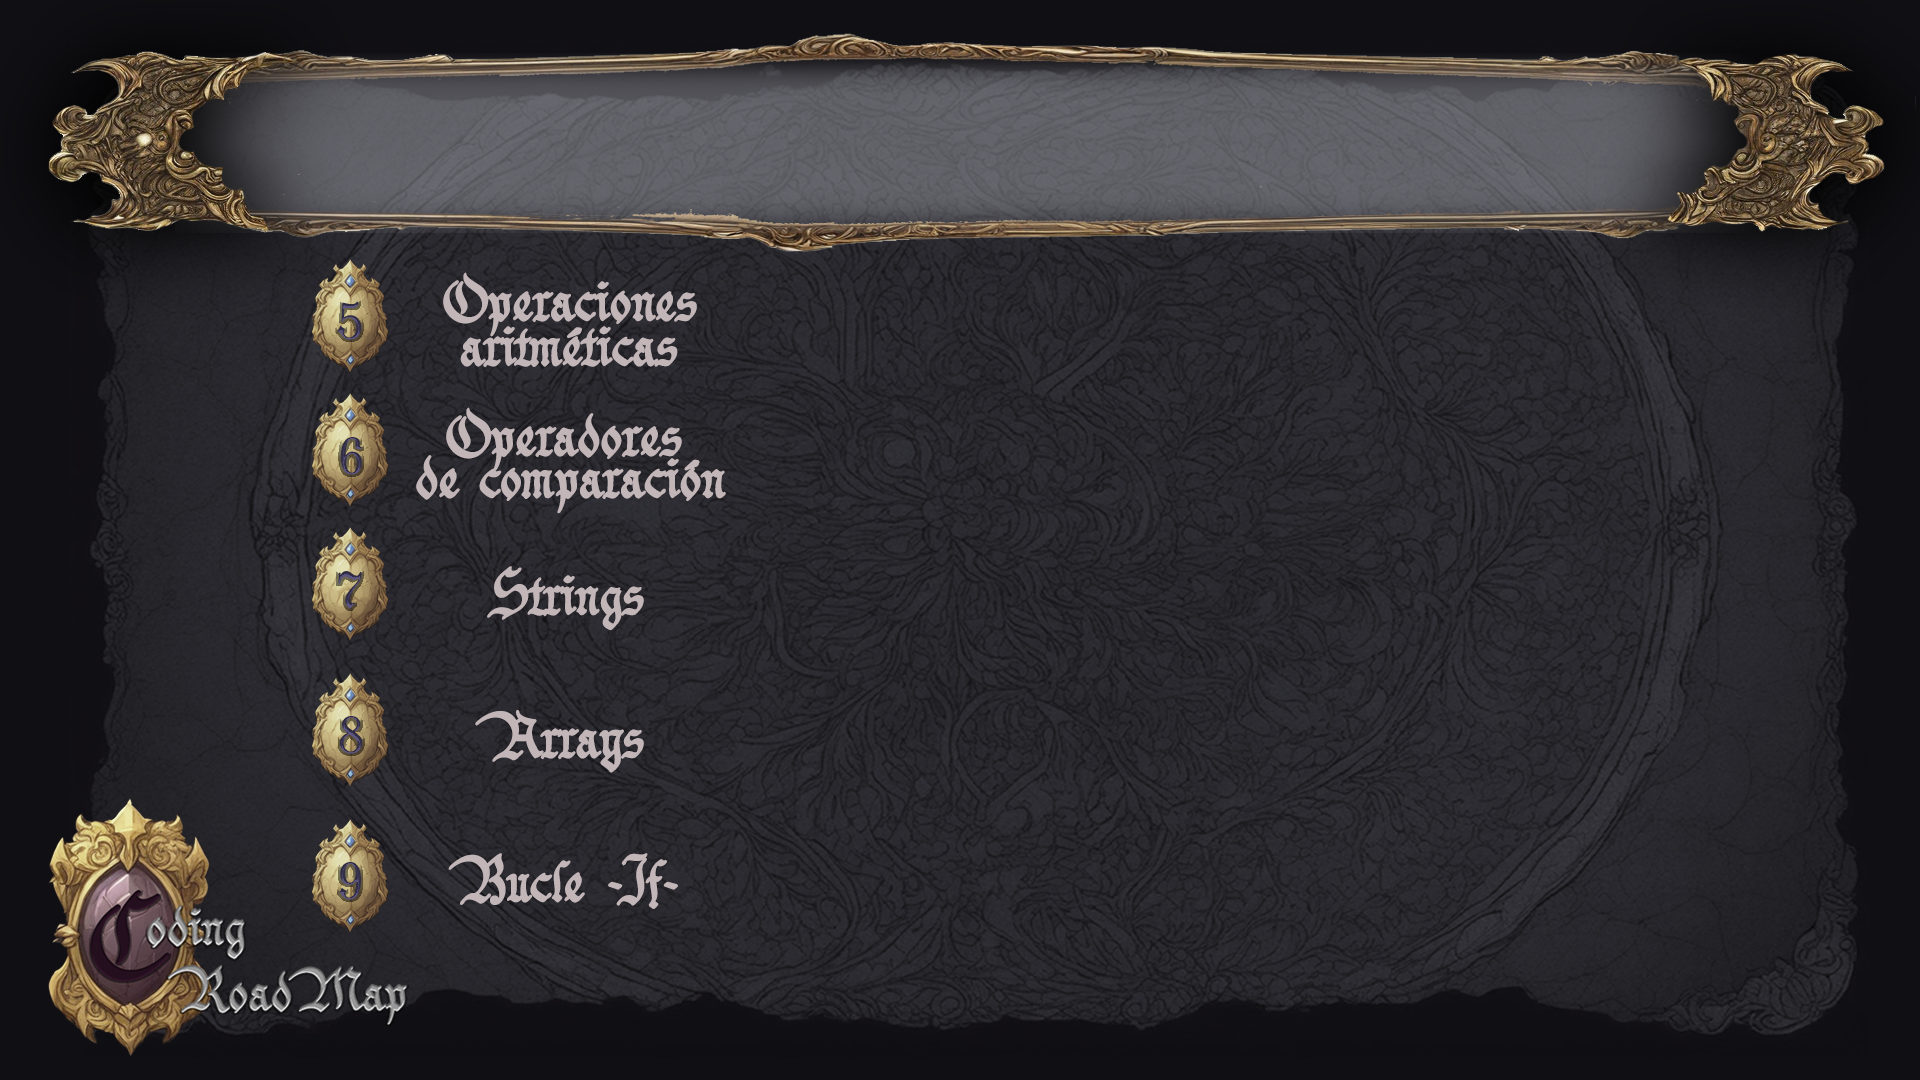
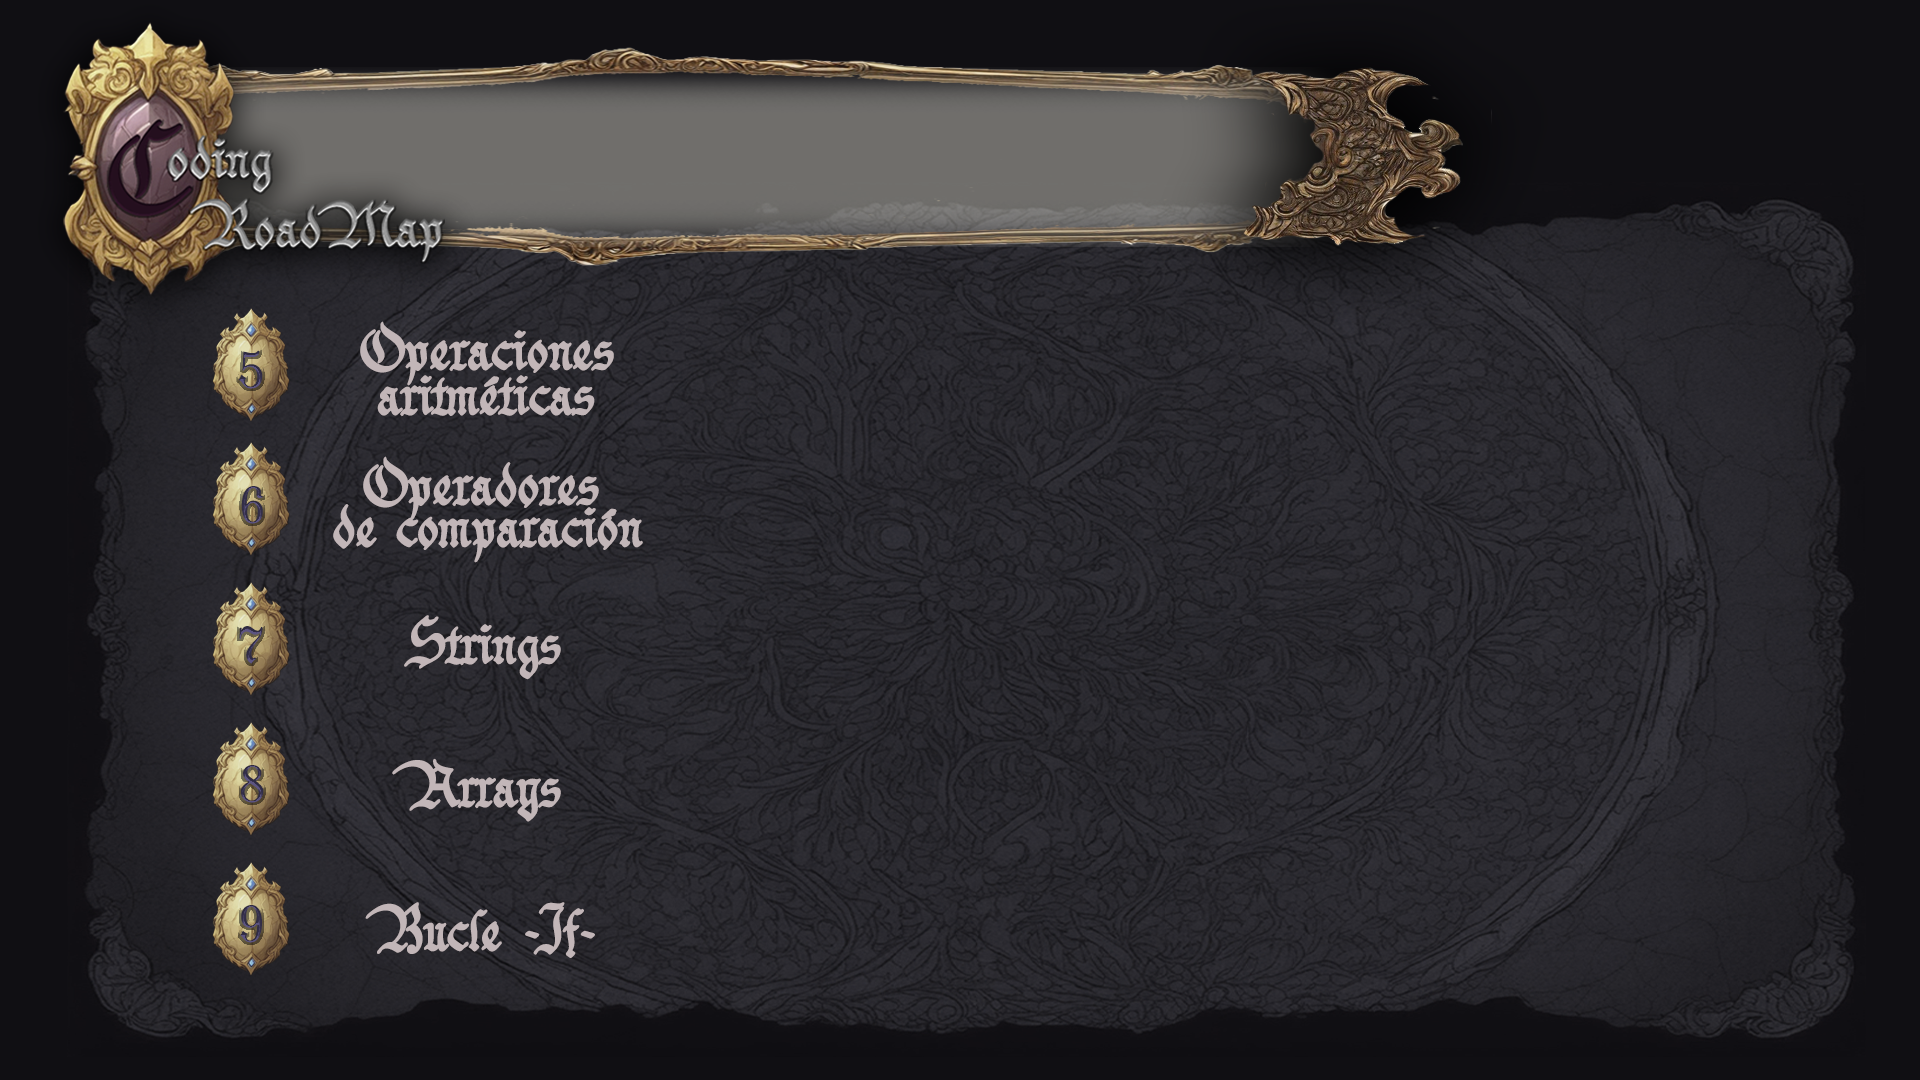
buttons img.

Changed region(s): [[0.0, 0.0306, 1.0, 0.9778]]

diff --git a/ui/screens/landing_2.py b/ui/screens/landing_2.py
@@ -38,7 +38,7 @@ def draw(frame, change_screen):
         canvas.config(cursor="")
 
     setattr(canvas, f"image_next_arrow_tk", image_next_arrow_tk)
-    next_arrow_button = canvas.create_image(120, 330, anchor=tk.NW, image=image_next_arrow_tk)
+    next_arrow_button = canvas.create_image(40, 330, anchor=tk.NW, image=image_next_arrow_tk)
     canvas.tag_bind(next_arrow_button, '<Button-1>', on_image_next_arrow_click)
     canvas.tag_bind(next_arrow_button, "<Enter>", on_image_next_arrow_enter)
     canvas.tag_bind(next_arrow_button, "<Leave>", on_image_next_arrow_leave)
@@ -47,8 +47,8 @@ def draw(frame, change_screen):
     row_offset = 50
     emblems_offset = 40
     for key, value in user_progress.items():
-        emblem_image = Image.open(resource_path("assets\\images\\emblems\\" + str(row_index) + ".png"))
-        emblem_image = emblem_image.resize((62, 62))
+        emblem_image = Image.open(resource_path("assets\\images\\emblems\\"+str(row_index)+".png"))
+        emblem_image = emblem_image.resize((45, 65))
 
         if value["status"] == "LOCKED":
             emblem_image_enhance = ImageEnhance.Brightness(emblem_image)
@@ -58,9 +58,9 @@ def draw(frame, change_screen):
             emblem_image_tk = ImageTk.PhotoImage(emblem_image)
 
         setattr(canvas, f"emblem_image_tk_{row_index}", emblem_image_tk)
-        canvas.create_image(130 + emblems_offset, 50, anchor=tk.NW, image=emblem_image_tk)
+        canvas.create_image(140 + emblems_offset, 65, anchor=tk.NW, image=emblem_image_tk)
 
-        emblems_offset += 63
+        emblems_offset += 80
 
         if row_index >= 5 and row_index <= 6:
             column_offset = 40
@@ -73,7 +73,7 @@ def draw(frame, change_screen):
                 image_book = image_book.resize((50, 70))
                 image_book_tk = ImageTk.PhotoImage(image_book)
                 setattr(canvas, f"image_book_{row_index}", image_book_tk)
-                canvas.create_image(550, 70 + row_offset, anchor=tk.NW, image=image_book_tk)
+                canvas.create_image(550, 135 + row_offset, anchor=tk.NW, image=image_book_tk)
 
             for i in range(value["total"]):
                 state = "LOCKED" if value["status"] == "LOCKED" else "IN_PROGRESS" if i == value["current"] else "LOCKED" if i > value["current"] else "COMPLETED"
@@ -101,7 +101,7 @@ def draw(frame, change_screen):
                     canvas.config(cursor="")
 
                 setattr(canvas, f"image_level_tk_{row_index}_{i}", image_level_tk)
-                button = canvas.create_image(580 + column_offset, 120 + row_offset, anchor=tk.NW, image=image_level_tk)
+                button = canvas.create_image(580 + column_offset, 135 + row_offset, anchor=tk.NW, image=image_level_tk)
                 if state != "LOCKED":
                     canvas.tag_bind(button, "<Enter>", on_image_enter)
                     canvas.tag_bind(button, "<Leave>", on_image_leave)

diff --git a/ui/screens/landing.py b/ui/screens/landing.py
@@ -39,7 +39,7 @@ def draw(frame, change_screen):
         canvas.config(cursor="")
 
     setattr(canvas, f"image_next_arrow_tk", image_next_arrow_tk)
-    next_arrow_button = canvas.create_image(1160, 330, anchor=tk.NW, image=image_next_arrow_tk)
+    next_arrow_button = canvas.create_image(1180, 330, anchor=tk.NW, image=image_next_arrow_tk)
     canvas.tag_bind(next_arrow_button, '<Button-1>', on_image_next_arrow_click)
     canvas.tag_bind(next_arrow_button, "<Enter>", on_image_next_arrow_enter)
     canvas.tag_bind(next_arrow_button, "<Leave>", on_image_next_arrow_leave)
@@ -49,7 +49,7 @@ def draw(frame, change_screen):
     emblems_offset = 40
     for key, value in user_progress.items():
         emblem_image = Image.open(resource_path("assets\\images\\emblems\\"+str(row_index)+".png"))
-        emblem_image = emblem_image.resize((62, 62))
+        emblem_image = emblem_image.resize((45, 65))
 
         if value["status"] == "LOCKED":
             emblem_image_enhance = ImageEnhance.Brightness(emblem_image)
@@ -59,9 +59,9 @@ def draw(frame, change_screen):
             emblem_image_tk = ImageTk.PhotoImage(emblem_image)
 
         setattr(canvas, f"emblem_image_tk_{row_index}", emblem_image_tk)
-        canvas.create_image(130 + emblems_offset, 50, anchor=tk.NW, image=emblem_image_tk)
+        canvas.create_image(140 + emblems_offset, 65, anchor=tk.NW, image=emblem_image_tk)
 
-        emblems_offset += 63
+        emblems_offset += 80
 
         if row_index < 5:
             column_offset = 40
@@ -74,7 +74,7 @@ def draw(frame, change_screen):
                 image_book = image_book.resize((50, 70))
                 image_book_tk = ImageTk.PhotoImage(image_book)
                 setattr(canvas, f"image_book_{row_index}", image_book_tk)
-                canvas.create_image(550, 70 + row_offset, anchor=tk.NW, image=image_book_tk)
+                canvas.create_image(550, 135 + row_offset, anchor=tk.NW, image=image_book_tk)
 
             for i in range(value["total"]):
                 state = "LOCKED" if value["status"] == "LOCKED" else "IN_PROGRESS" if i == value["current"] else "LOCKED" if i > value["current"] else "COMPLETED"
@@ -102,7 +102,7 @@ def draw(frame, change_screen):
                     canvas.config(cursor="")
 
                 setattr(canvas, f"image_level_tk_{row_index}_{i}", image_level_tk)
-                button = canvas.create_image(580 + column_offset, 120 + row_offset, anchor=tk.NW, image=image_level_tk)
+                button = canvas.create_image(580 + column_offset, 135 + row_offset, anchor=tk.NW, image=image_level_tk)
                 if state != "LOCKED":
                     canvas.tag_bind(button, "<Enter>", on_image_enter)
                     canvas.tag_bind(button, "<Leave>", on_image_leave)
